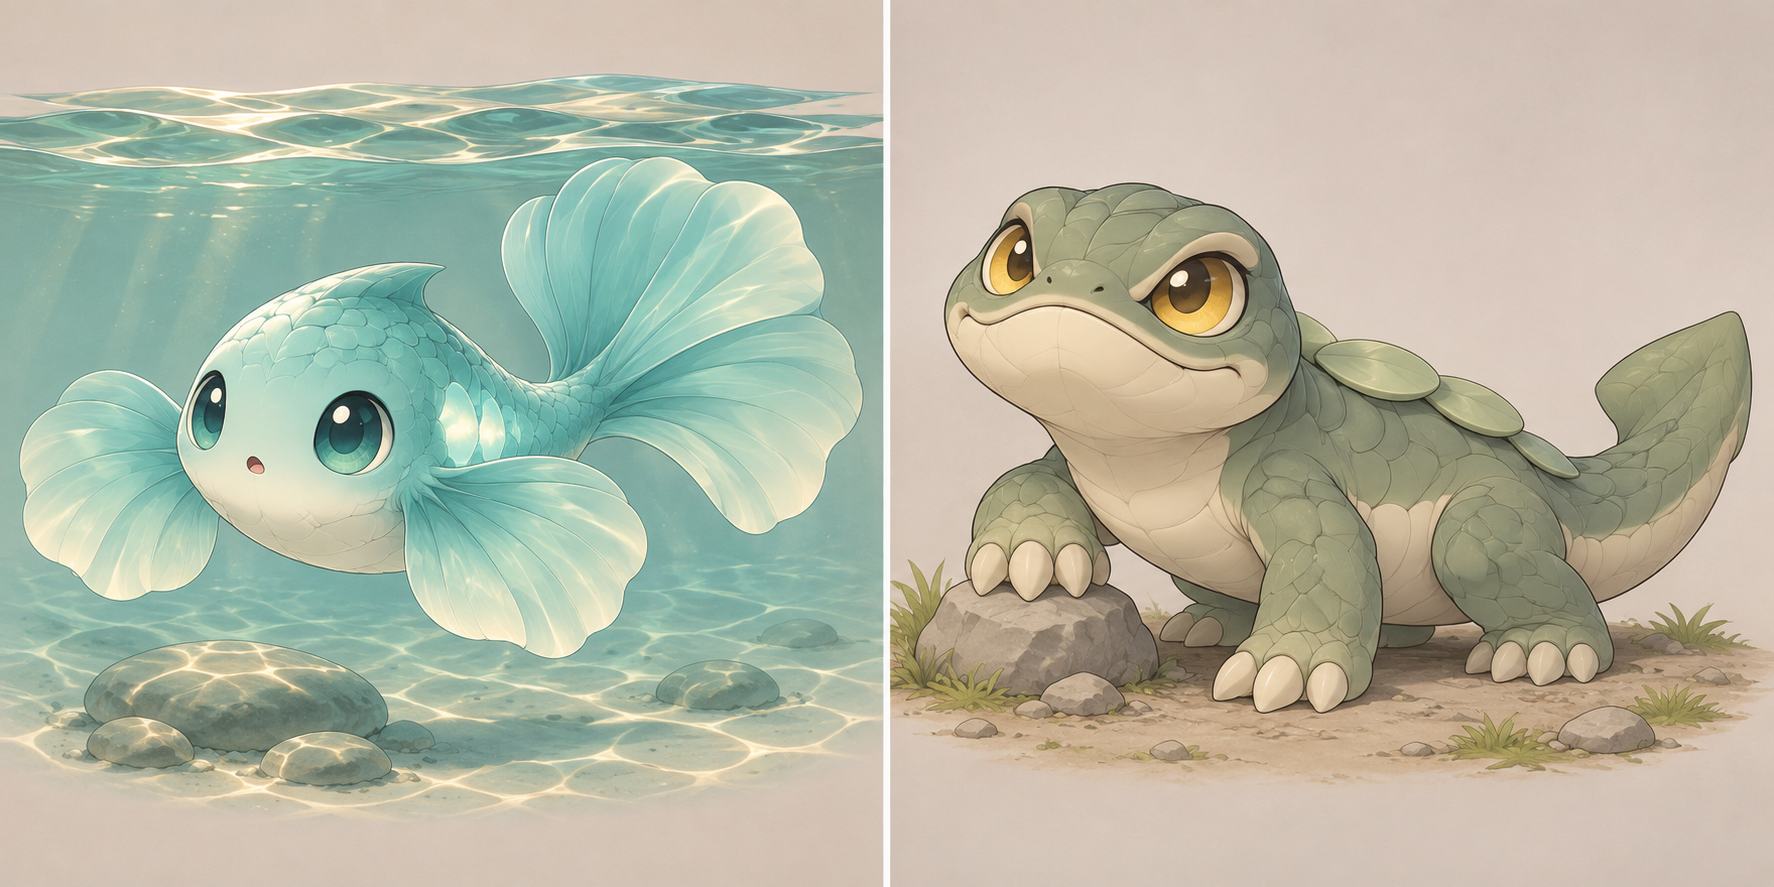
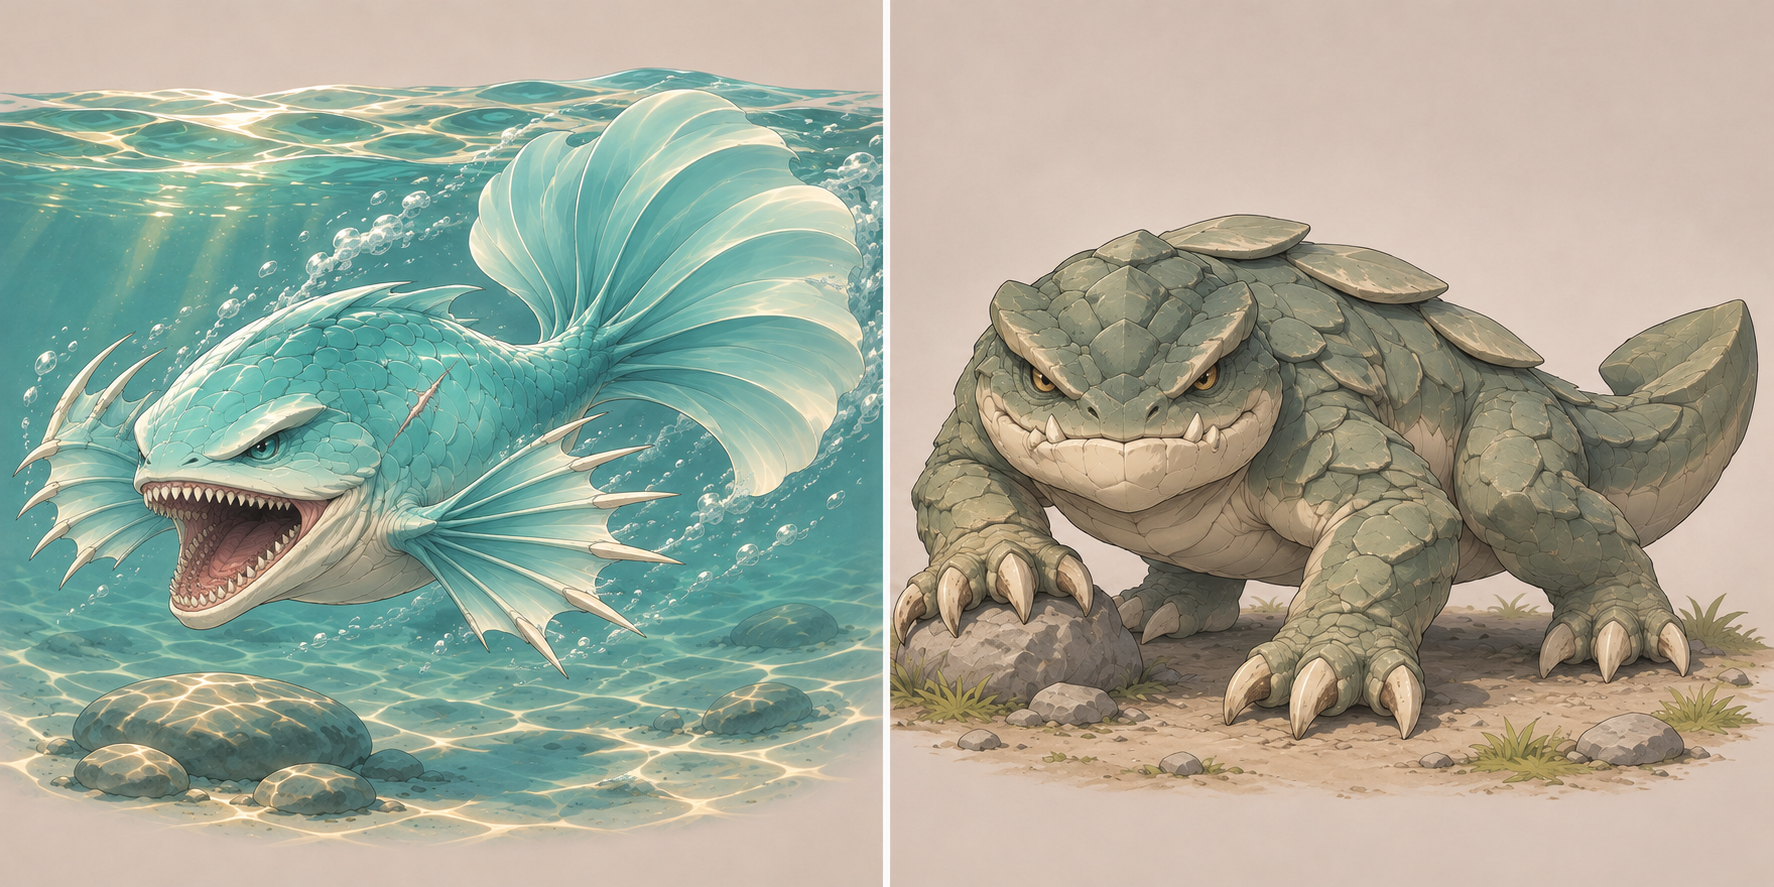
Redesign Por and Tork as dangerous basic monsters

diff --git a/fantasy-rpg/WORLD_BIBLE.md b/fantasy-rpg/WORLD_BIBLE.md
@@ -889,3 +889,6 @@
 - 전투: 짧은 돌진·물기·꼬리치기. 경린으로 비늘을 잠시 단단하게 만들 수 있으나 유지 중 움직임이 둔해지고 오래 쓰면 지친다. 방향 전환이 느리고 관절 사이와 배는 상대적으로 약하다.
 - 정수 후보(무작위 하나+관련 스탯 상승, 상세 시안): 경린(마나로 피부 표면 일시 강화, 방어력), 접지(발을 지면에 밀착해 밀림을 줄임, 힘), 열 적응(온도 변화에 대한 육체 부담 완화, 체력). 열 적응은 냉열 면역이 아니다.
 - 두 종 모두 정수와 영혼석은 기존 확정 희귀도 규칙을 따르며 위 능력 수치·소모량은 아직 미정이다. 기존 씨앗종과 마찬가지로 진화 후 형태를 출발 분류로 제한하지 않는다.
+
+- 사용자 확정 방향 보완: 기본 1성이라도 사람을 충분히 죽일 수 있는 몬스터다. 씨앗종을 무해한 새끼 동물로 표현하지 않는다. 판타지 비율과 위험성은 함께 유지한다.
+- 포르·토르크 원화를 위험성이 드러나는 수정본으로 교체했다. 포르는 작은 포식자 눈·크게 벌어지는 이빨 달린 턱·가시 지느러미, 토르크는 강한 턱·거친 비늘·날카로운 발톱과 낮게 버티는 자세를 가진다. 일반인에게 공격력이 낮다는 이전 표현은 폐기한다. 구체 전투 수치는 여전히 미정이다.
